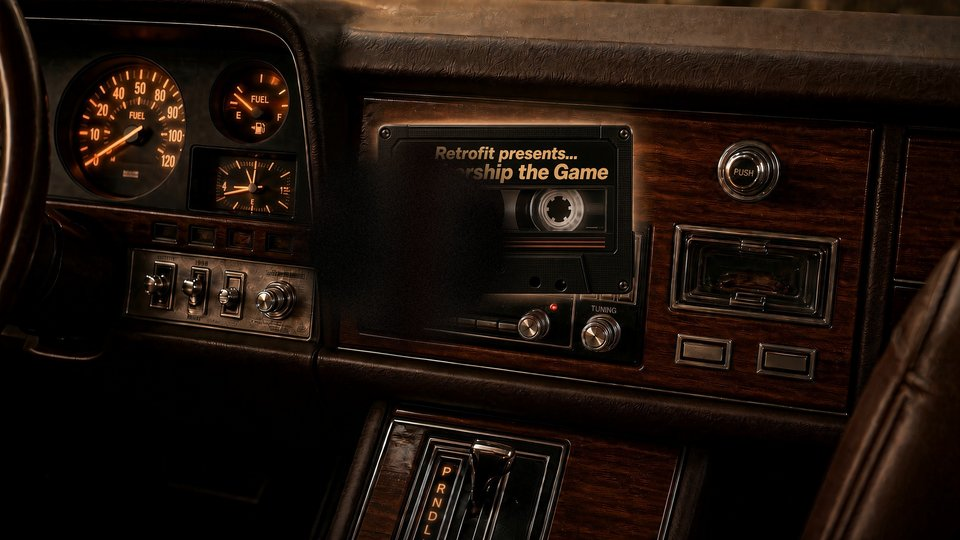
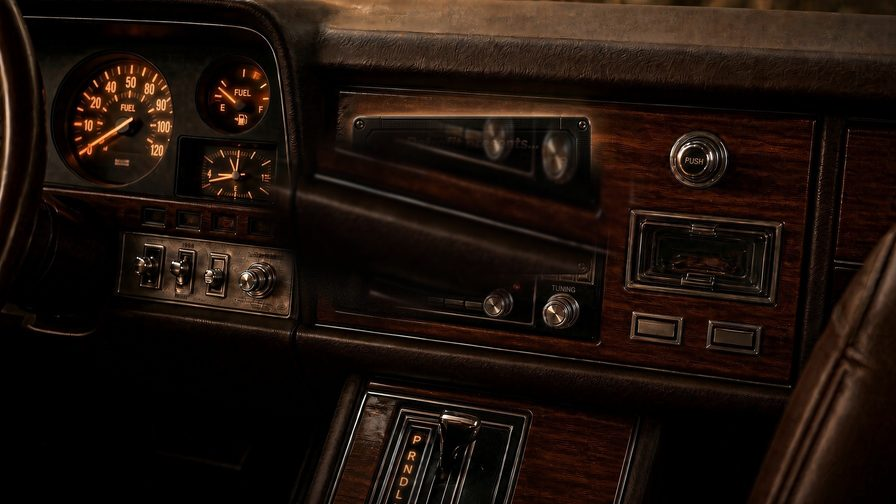
Remove baked-in dash cassette so title shows only the interactive tape.

diff --git a/index.html b/index.html
@@ -5,8 +5,8 @@
   <meta name="viewport" content="width=device-width, initial-scale=1, maximum-scale=1, user-scalable=no, viewport-fit=cover" />
   <meta name="apple-mobile-web-app-capable" content="yes" />
   <title>Mothership — Retrofit</title>
-  <link rel="stylesheet" href="css/style.css?v=19" />
-  <link rel="stylesheet" href="css/neon.css?v=19" />
+  <link rel="stylesheet" href="css/style.css?v=20" />
+  <link rel="stylesheet" href="css/neon.css?v=20" />
 </head>
 <body>
   <div id="game-wrap">
@@ -60,7 +60,7 @@
           <button type="button" id="menu-cassette" class="menu-cassette" aria-label="Insert cassette — Retrofit presents Mothership the Game">
             <span class="tape-shell tape-shell--dash">
               <span class="tape-glow" aria-hidden="true"></span>
-              <img class="tape-photo" src="assets/title-cassette.png?v=19" width="600" height="373" alt="Retrofit Mothership cassette — weathered black shell, cream label, UFO art" draggable="false" />
+              <img class="tape-photo" src="assets/title-cassette.png?v=20" width="600" height="373" alt="Retrofit Mothership cassette — weathered black shell, cream label, UFO art" draggable="false" />
             </span>
           </button>
           <p class="tape-prompt" id="tape-prompt">Slide cassette into the deck</p>
@@ -105,11 +105,11 @@
   </div>
   <audio id="theme-audio" src="assets/mothership-theme.mp3" playsinline webkit-playsinline loop preload="auto"></audio>
   <script src="js/audio.js"></script>
-  <script src="js/world.js?v=19"></script>
-  <script src="js/photo-sprites.js?v=19"></script>
-  <script src="js/sossys.js?v=19"></script>
-  <script src="js/neon-look.js?v=19"></script>
-  <script src="js/game.js?v=19"></script>
-  <script src="js/song-cues.js?v=19"></script>
+  <script src="js/world.js?v=20"></script>
+  <script src="js/photo-sprites.js?v=20"></script>
+  <script src="js/sossys.js?v=20"></script>
+  <script src="js/neon-look.js?v=20"></script>
+  <script src="js/game.js?v=20"></script>
+  <script src="js/song-cues.js?v=20"></script>
 </body>
 </html>

diff --git a/css/style.css b/css/style.css
@@ -435,7 +435,7 @@ html, body {
   inset: 0;
   z-index: 0;
   background:
-    #0a0604 url("../assets/title-dash-bg.jpg") center center / cover no-repeat;
+    #0a0604 url("../assets/title-dash-bg.jpg?v=20") center center / cover no-repeat;
   filter: saturate(1.05) contrast(1.08);
   transform: scale(1.02);
 }
@@ -696,7 +696,10 @@ html, body {
   50% { opacity: 1; transform: scale(1.04); }
 }
 
-.tape-body {
+.tape-body, .tape-label-face, .tape-window, .tape-screw {
+  display: none !important; /* superseded by .tape-photo */
+}
+.tape-body-UNUSED {
   position: relative;
   z-index: 1;
   display: block;

diff --git a/js/world.js b/js/world.js
@@ -6831,7 +6831,7 @@
   function titleDashImage() {
     if (_titleDashImg) return _titleDashImg;
     _titleDashImg = new Image();
-    _titleDashImg.src = 'assets/title-dash-bg.jpg?v=18';
+    _titleDashImg.src = 'assets/title-dash-bg.jpg?v=20';
     return _titleDashImg;
   }
 
